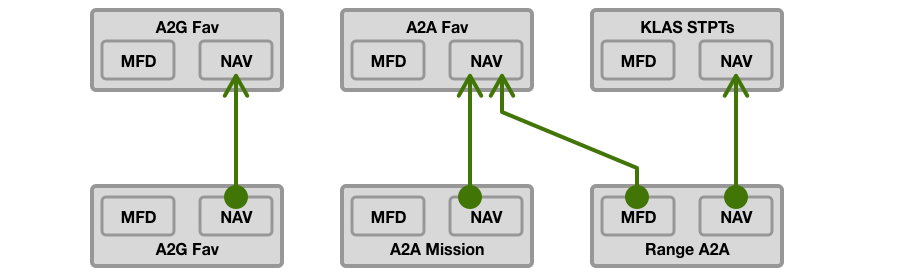
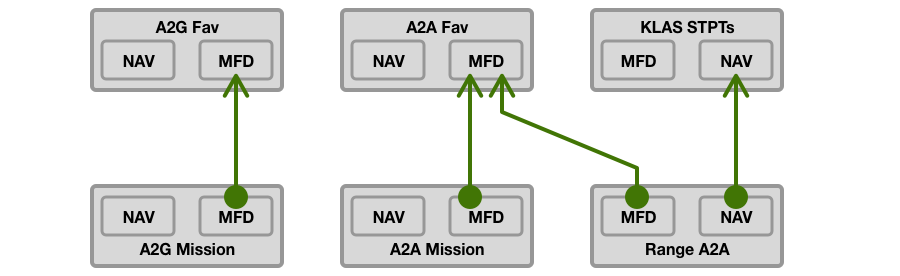
Documentation Updates
Updated documentation for PoI and common comms system material.

diff --git a/doc/README.md b/doc/README.md
@@ -7,10 +7,10 @@ into a DCS model at the start of a flight.
 
 This document covers the basic usage of the tool and describes general concepts applicable to
 all supported airframes. After reading through this overview, look over the airframe-specific
-documentation for the supported airframes.
+documentation for additional details.
 
-| Airframe | Configurable Systems |
-|:--------:|---------|
+| Airframe | Systems Configurable by JAFDTC |
+|:--------:|--------------------------------|
 | [A-10C Warthog](https://github.com/51st-Vfw/JAFDTC/tree/master/doc/Airframe_A10C.md) | Waypoints
 | [AV-8B Harrier](https://github.com/51st-Vfw/JAFDTC/tree/master/doc/Airframe_AV8B.md) | Waypoints
 | [F-14A/B Tomcat](https://github.com/51st-Vfw/JAFDTC/tree/master/doc/Airframe_F14AB.md) | Waypoints
@@ -57,33 +57,50 @@ components.
 Links are particularly useful when you have basic setups that you tend to reuse often. For
 example, you might want to always configure your MFDs one way for A2G and another way for
 A2A. Let's assume configurations for our airframe support an MFD system (MFD) that sets up
-cockpit displays and a navigation system (NAV) that sets up steerpoints.
-
-Once you setup your A2G and A2A MFD configurations, you can simply link to them from new
-configurations to avoid having to set the MFDs up again in the new configuration.
+cockpit displays and a navigation system (NAV) that sets up steerpoints. Once you setup your
+A2G and A2A MFD configurations, you can simply link to them from new configurations to avoid
+having to set the MFDs up again in the new configuration.
 
 ![](images/Core_Cfg_Links.png)
 
-Any change you make to the MFD system in "A2G Fav" or "A2A Fav" will be immediately
-reflected in the configurations that link to these system configurations; in this example,
-"A2G Mission", "A2A Mission", and "Range A2A". Once linked, only the original is editable.
-That is, the A2G MFD system will be read-only in "A2G Mission" but may be edited through
-"A2G Fav".
+Here, the arrow points to the source system configuration: the MFD system configuration in
+"A2G Mission" comes from (or, is linked to) the MFD system configuration in "A2G Fav".
 
-Links connect individual systems in two different configurations. Though "A2A Fav" and
+Any change you make to the MFD system in "A2G Fav" or "A2A Fav" is immediately reflected in
+the configurations that link to these system configurations; in this example, "A2G Mission",
+"A2A Mission", and "Range A2A". Once linked, only the original is editable. That is, the A2G
+MFD system will be read-only in "A2G Mission" but may be edited through "A2G Fav".
+
+Links connect *individual* systems in two different configurations. Though "A2A Fav" and
 "A2G Mission" have linked their MFD system configurations, they have completely independent
 NAV system configurations.
 
-Furhter, different systems can link to different configurations. In the above picutre,
+Further, different systems can link to different configurations. In the above picutre,
 "Range A2A" gets it's MFD setup from "A2A Fav" and its NAV setup from "KLAS STPTs". There
-is no limit to the number of systems that may link to a particular setup.
+is no limit to the number of systems that can link to a particular system configuration.
 
-> Linking system configurations is described further
+Links are not affected by changes to configuration names: renaming "A2G Fav" to "A2G Base",
+for example, will not break the link with "A2G Mission". In addition, settings are not lost
+when you delete a source configuration. For example, though deleting "A2G Fav" will break the
+link with "A2G Mission", the MFD settings in "A2G Mission" will match the MFD settings from
+"A2G Fav" when the configuration was deleted.
+
+> The mechanics of linking system configurations through the user interface is covered
 > [below](#system-editor-page).
+
+## Configuration Storage
+
+JAFDTC stores configuration and supporting files, such as settings, in the `Documents\JAFDTC`
+folder for the active profile. Configurations are found in the `Configs` folder. Generally, you
+should not need to access the files in the `JAFDTC` folder as JAFDTC provides import and export
+functions (see below) to allow the exchange of information.
+
+> As with all things, there are exceptions. A good general rule is if the JAFDTC UI can do
+> something, use the UI and don't try to work around it.
 
 ## Uploading Configurations to DCS
 
-Once built, a *Configuration* can be uploaded into the corresponding airframe in DCS through
+Once set up, a *Configuration* can be uploaded into the corresponding airframe in DCS through
 the scripting engine that DCS exposes to the local system. To upload, JAFDTC walks through the
 configuration, updating system parameters that differ from their defaults in the jet. For
 example, consider a BINGO warning system. If you change the BINGO value from the default for
@@ -93,16 +110,6 @@ not change the value, JAFDTC will not make any changes to that parameter in the 
 See the
 [discussion below](#interacting-with-dcs)
 for more details.
-
-# Configuration Storage
-
-JAFDTC stores configuration and supporting files, such as settings, in the `Documents\JAFDTC`
-folder. Configurations are found in the `Configs` folder. Generally, you should not need to
-access the files in the `JAFDTC` folder as JAFDTC provides import and export functions (see
-below) to allow the exchange of information.
-
-> As with all things, there are exceptions. A good general rule is if the JAFDTC UI can do
-> something, use the UI and don't try to work around it.
 
 # User Interface Overview
 
@@ -125,7 +132,7 @@ The primary components of this page include,
 - **Configuration List** &ndash; Lists the available configurations for the selected airframe.
 - **Status Area** &ndash; Shows information on the current DCS status and pilot.
 
-The reaminder of this section will discuss each of these elements in more detail.
+The reaminder of this section discusses each of these elements in more detail.
 
 ### Filter Search Box
 
@@ -186,7 +193,6 @@ The command bar includes the following commands,
   configuration by double-clicking on the configuration in the configuration list.
 - **Duplicate** &ndash; Creates a copy of the selected configuration after prompting for a name for the
   copy of the configuration.
-- **Paste** &ndash; Pastes information from the clipboard into the selected configuration.
 - **Rename** &ndash; Renames the selected configuration.
 - **Delete** &ndash; Removes the currently selected configuration from the database.
 - **Import** &ndash; Creates a new configuration from a file previously created with the *Export*
@@ -202,6 +208,7 @@ The command bar includes the following commands,
 
 The overflow menu (exposed by clicking on the "..." button) holds two commands,
 
+- **POI** &ndash; TODO
 - **Settings** &ndash; Opens up the
   [JAFDTC Settings](#settings)
   dialog to allow you to change JAFDTC settings.
@@ -226,7 +233,7 @@ For example,
 
 ![](images/Core_Cfg_DCS_Status.png)
 
-shows two different DCS statuses. On the left, DCS is not running but the Lua support is
+shows two different status areas. On the left, DCS is not running but the Lua support is
 installed. On the right, DCS is running a mission where the player is piloting an F-16C
 Viper.
 
@@ -235,9 +242,10 @@ The left side of the status area identifies the pilot and wing as specified thro
 
 ## System Editor Page
 
-The specific systems availble in a configuration vary from airframe to airframe. The system
-editor page provides a list of systems from which you can display per-system editors as the
-following figure illustrates.
+The specific systems availble in a configuration vary from airframe to airframe. However, the
+general structure of the page on which you edit system configurations is similar from airframe
+to airframe. The system editor page provides a list of systems from which you can display
+per-system editors as the following figure illustrates.
 
 ![](images/Core_Cfg_Edit_Page.png)
 
@@ -264,11 +272,12 @@ A small gold dot marks those systems that are linked to other configurations.
 Clicking on a row in this list changes the system editor to the right to edit the selected
 system.
 
-### System Configuration Editor
+### System Editor
 
 The bulk of the page is taken up by the system editor on the right. The content of this editor
-depends on which system seleted from the *System List* to the left. In the figure above, the
-editor is showing the steerpoint list associated with the selected steerpoints system. See the
+depends on which system is selected from the *System List* to the left. In the figure above,
+the editor is showing the steerpoint list associated with the selected steerpoints system. See
+the
 [airframe discussions](#airframe-specific-documentation)
 for further details on the specific system editors. Though largely specific to a particular
 airframe, many systems provide common *Reset* and *Link* buttons along the bottom of the
@@ -320,26 +329,35 @@ system is presently linked to. When unlinking, the system configuration does not
 will no longer receive updates from the source configuration. Icons for linked systems are
 badged with a small gold dot as described earlier.
 
-## System Editor Pages for Navigation Systems
+## System Editors for Navigation Systems
 
 Most aircraft in JAFDTC support a navigation system that allows _Navigation Points_ (i.e.,
 waypoints or steerpoints) to be input into the avionics as a part of a configuration. While
-the interface for managing navigation points does depend on the airframe, we will describe
-some typically common behaviors here.
+the interface for managing navigation points depends on the airframe, the general operation
+and layout of the interface is similar.
 
 > This is an overview of common functionality. Specific support may differ from airframe to
 > airframe. As usual, consult the airframe-specific documentation linked above for further
 > details on a particular airframe.
 
+Navigation systems typically follow a pattern where the system editor first shows a page that
+contains a list of navigation points in the system. From this page, you can jump to pages that
+allow you to edit the properties of a single navigation point. 
+
 ### Navigation Point List
-The first level of the interface presents a list of known navigation points,
+The first level of the interface presents a list of known navigation points. Generally, this
+is the
+[system editor](#system-editor)
+you will see when you select the navigation system from the
+[system list](#system-list).
 
 ![](images/Core_Base_Nav_List.png)
 
 The navigation point list that makes up the bulk of the editor lists the known navigation
-points, their coordinates, name, and other airframe-specific information. You can select one
-or more navigation points from the list using the usual Windows interactions. The command bar
-at the top of the editor allows you to manipulate selected items in the navigation point list.
+points, their coordinates, name, and other airframe-specific information. This information is
+formated per airframe conventions. You can select one or more navigation points from the list
+using the usual Windows interactions. The command bar at the top of the editor allows you to
+manipulate selected items in the navigation point list.
 
 ![](images/Core_Base_Nav_Cmd.png)
 
@@ -371,13 +389,18 @@ would also include reference points such as OAP1 and OAP2.
 The top section of the page allows you to set up the navigation point from a known
 *point of interest*, such as an airfield, or capture its coordinates from the F10 map in DCS as
 [discussed below](#capturing-coordinates). You can select a point of interest from the drop-
-down menu; pressing the `+` button to the right of the drop-down copies its parameters (such
-as latitude or longitude) into the navigation point.
+down menu; pressing the **Paste** button to the right of the drop-down copies its parameters
+(such as latitude or longitude) into the navigation point. Points of interest are grouped by
+theater (for example, Syria, Nevada) and point within the theater (for example, Ramat David,
+Nellis AFB).
 
 The row below that identifies the navigation point being edited and, on the right, provides
-three controls. The upward- and downward-pointing chevrons advance to the previous and next
-navigation point, respectively, in the list. The `+` button in between the chevrons adds a new
-navigation point to the end of the list.
+four controls.
+
+- The pin button creates a user point of interest from the current navigation parameters.
+- The upward- and downward-pointing chevrons advance to the previous and next navigation
+  point in the list, respectively.
+- The `+` button in between the chevrons adds a new navigation point to the end of the list.
 
 The bulk of the page is taken up by an area for the navigation point parameters. In this
 example, there are only four: name, latitude, longitude, and altitude. The specific format of
@@ -394,9 +417,13 @@ changes. Clicking either of these buttons will take you back to the navigation p
 ### Capturing Coordinates for Navpoints
 
 Both the navigation point list and navigation point editor pages allow you to capture
-coordinates for navigation points from the DCS F10 map. When capturing from the list page,
-you may capture multiple coordinates and either append new navigation points to the list or
-update existing navigation points in the list,
+coordinates for navigation points from the DCS F10 map.
+
+> Capturing coordinates in this fashion requires access to the F10 map. This implies a
+> mission is running with a pilot slotted in.
+
+When capturing from the list page, you may capture multiple coordinates and either append new
+navigation points to the list or update existing navigation points in the list,
 
 ![](images/Core_Base_Capture_C1.png)
 
@@ -412,6 +439,85 @@ Once capture begins, JAFDTC displays a dialog while you interact with DCS as
 JAFDTC will interact with the coordinate capture in DCS as long as this dialog is active. After
 you have completed the capture in DCS, you click “Done” in this dialog to incorporate the
 captured coordinates in the navigation system.
+
+## System Editors for Communications Systems
+
+Most aircraft in JAFDTC support a communication system that allows configuration of one or more
+radios in the airframe. Typical configuration includes information like preset frequencies,
+enabling guard monitoring, and so on.
+
+> This is an overview of common functionality. Specific support may differ from airframe to
+> airframe. As usual, consult the airframe-specific documentation linked above for further
+> details on a particular airframe.
+
+Communication systems typically follow a pattern where the system editor shows a list of
+presets along with other controls to specify other system configuration.
+
+![](images/Core_Base_Comm.png)
+
+The top row of the page provides controls to select one of the radios to edit from the
+communications system. A blue dot next to the name indicates the radio has been modified from
+default values. The upward- and downard-pointing chevrons step through the radios.
+
+To the right of these controls is a command bar with three commands:
+
+- **Add** &ndash; Adds a preset to the selected radio.
+- **Import** &ndash; Imports presets from a previously exported file.
+- **Export** &ndash; Exports presets to a file suitable for import later.
+
+The middle part of the page presents a list of defined presets, where each row corresponds to
+a single preset for the selected radio. Each preset includes a number, frequency, and
+description. The `X` button at the right of the row deletes the preset.
+
+The bottom portion of the page includes airframe-specific controls for airframe-specific
+parameters (see the
+[airframe-specific documentation](#jafdtc-users-guide)
+for further details) along with the common **Link** and **Reset** controls
+[discussed earlier](#common-editor-controls).
+
+## Point of Interest Database
+
+JAFDTC provides a *Points of Interest* (PoI) database that contains common locations throughout
+DCS theaters. This database consists of two types of entries,
+
+- *System Entries* are entries set by DCS and cover features such as airfields.
+- *User Entries* are entries defined by a user that cover features useful to a user.
+
+While *System Entries* are fixed and immutable, users can define and managed *User Entries* as
+they see fit. PoIs are applied using the **Paste PoI** command from a
+[navigation point editor](#navigation-point-editor)
+to copy the locations to a navigation point. User PoIs can also be created from a navigation
+point editor.
+
+The **Point of Interest** command in the
+[overflow menu](#command-bar)
+opens up an editor page to manage known PoIs.
+
+![](images/Core_Base_PoI.png)
+
+The top portion of this page contains a combo box that allows you to filter the PoIs by DCS
+theater along with a command bar. Below this row is a list of PoIs, one per row. The pin icon
+at the left of a row indicates that the PoI is a user PoI. At the bottom of the page is an area
+to edit the properties of a PoI including the name, latitude, longitude, and elevation.
+
+The command bar,
+
+![](images/Core_Base_PoI_Cmd.png)
+
+includes the following commands,
+
+- **Edit** &ndash; Copies the properties from the selected PoI to the PoI editor.
+- **Delete** &ndash; Deletes the selected *user* PoIs from the database.
+- **Import** &ndash; Imports new PoIs from a previously exported file.
+- **Export** &ndash; Exports selected *user* PoIs from the database to a file.
+- **User Only** &ndash; Toggles the PoI list between showing all PoIs and only showing
+  user PoIs.
+- **Coordiantes** &ndash; Selects the format to use for PoI coordiantes.
+
+After entering or updating properties for a PoI in the PoI editor, click the **Add** button
+to add a new PoI to the theater (the theater is automatically determined from the latitude
+and longitude). The **Add** button will be titled **Update** if the change would update an
+existing user PoI.
 
 ## Settings
 
